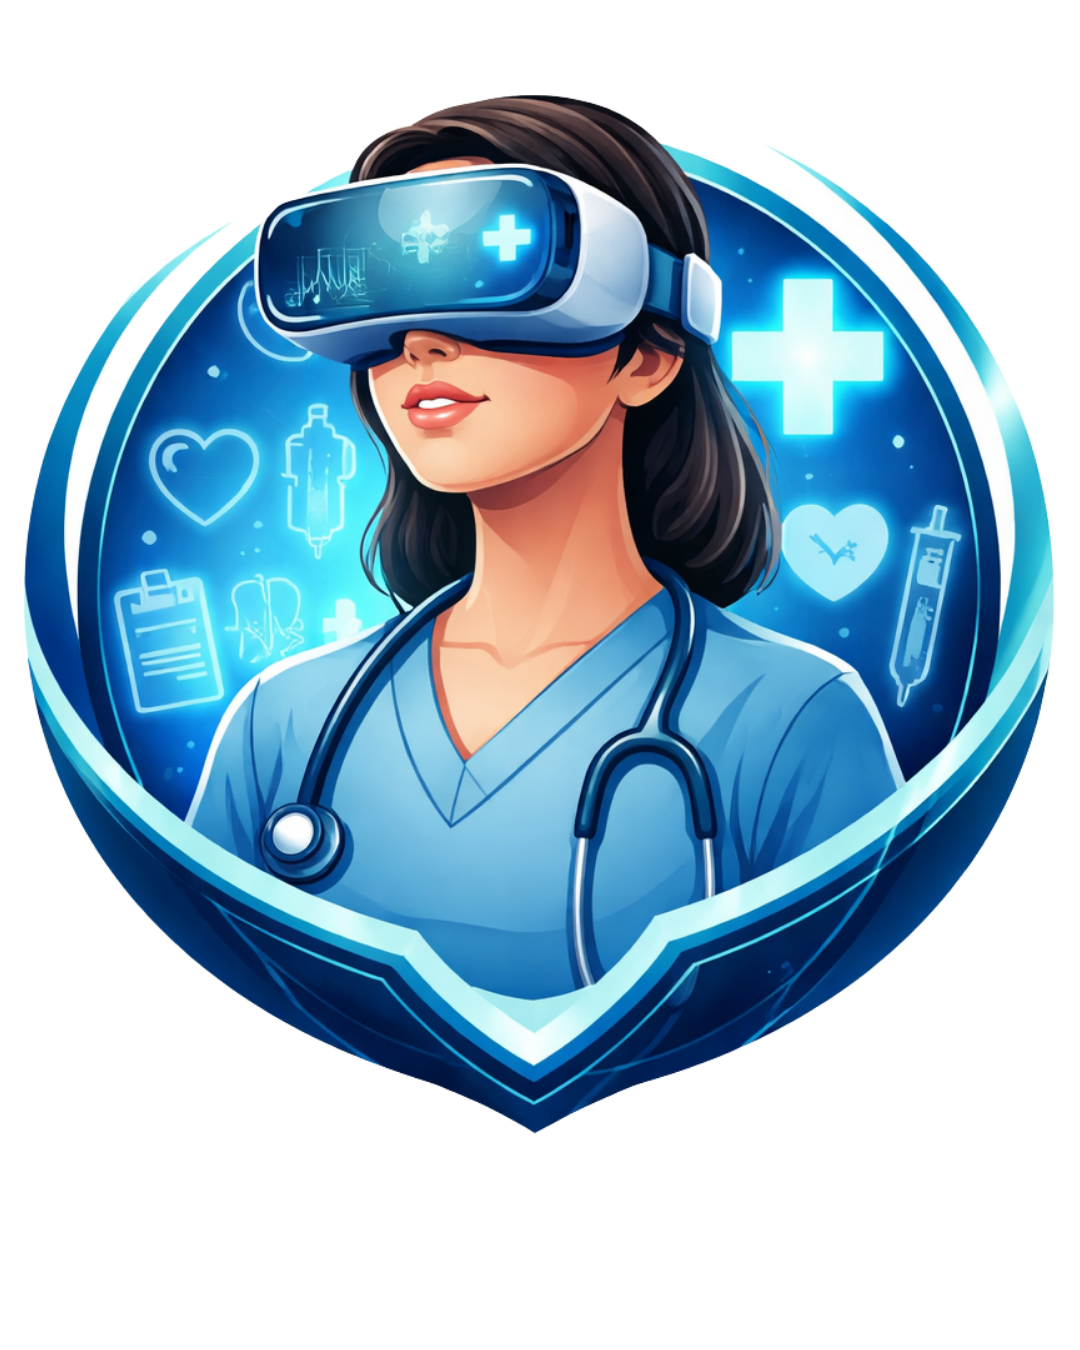
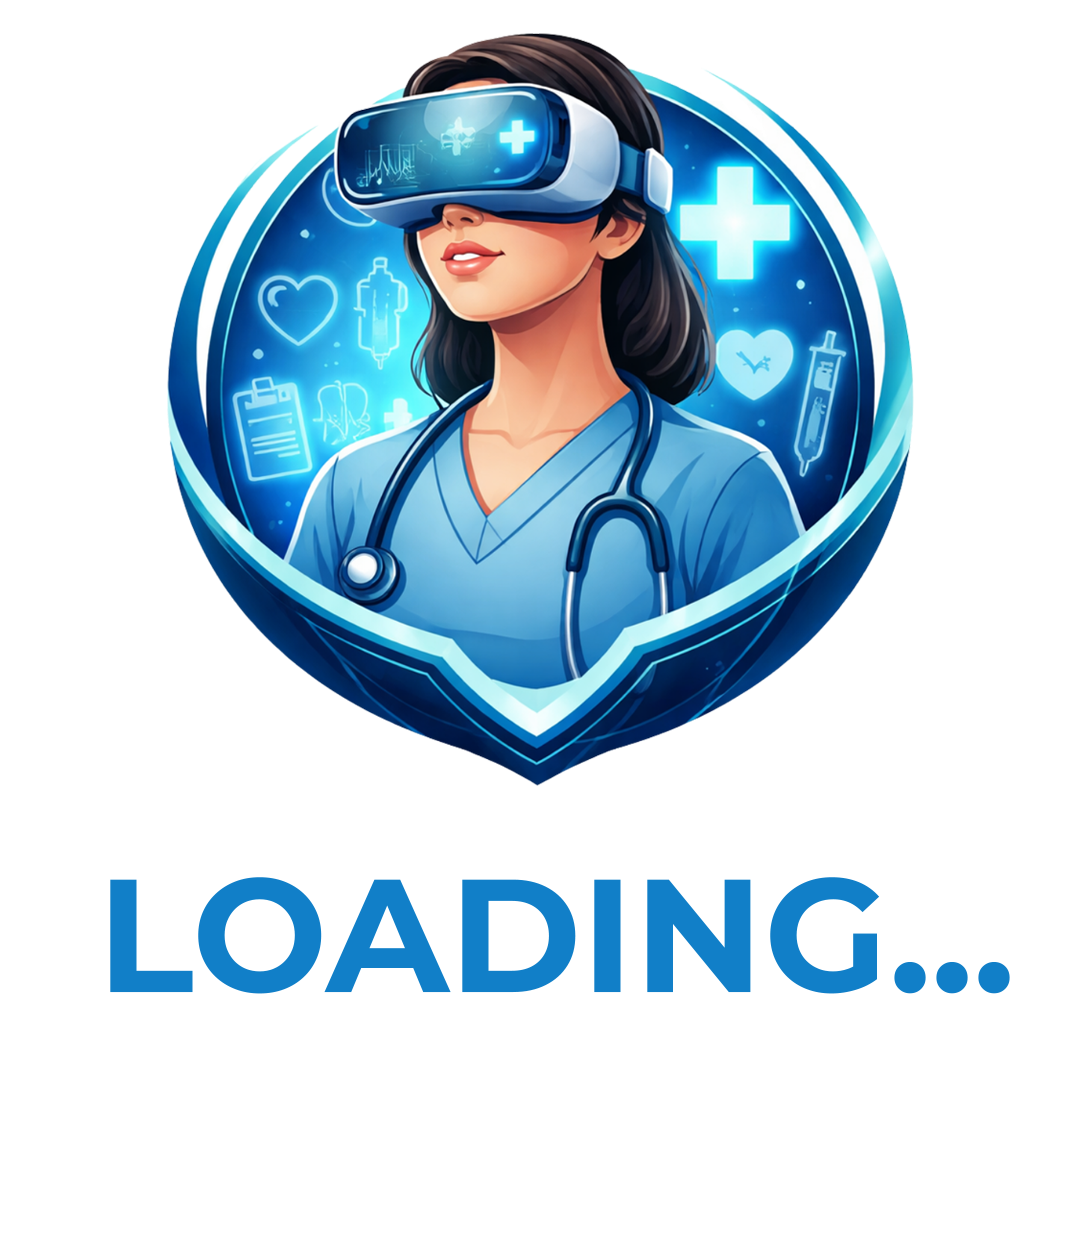
smaller and added text says loading on the image

diff --git a/js/three-setup.js b/js/three-setup.js
@@ -51,7 +51,7 @@ renderer.outputColorSpace = THREE.SRGBColorSpace;
 // on the sphere and skew everything into an oval.
 export let loadingTexture = null;
 
-const LOADING_IMAGE_SIZE = 0.3;      // 0–1, fraction of canvas height the image occupies (smaller = smaller image)
+const LOADING_IMAGE_SIZE = 0.2;      // 0–1, fraction of canvas height the image occupies (smaller = smaller image)
 const LOADING_BG_COLOR   = '#ffffff'; // background behind the image — set to '#0d0e11' for dark theme
 
 const loadingCanvas = document.createElement('canvas');
